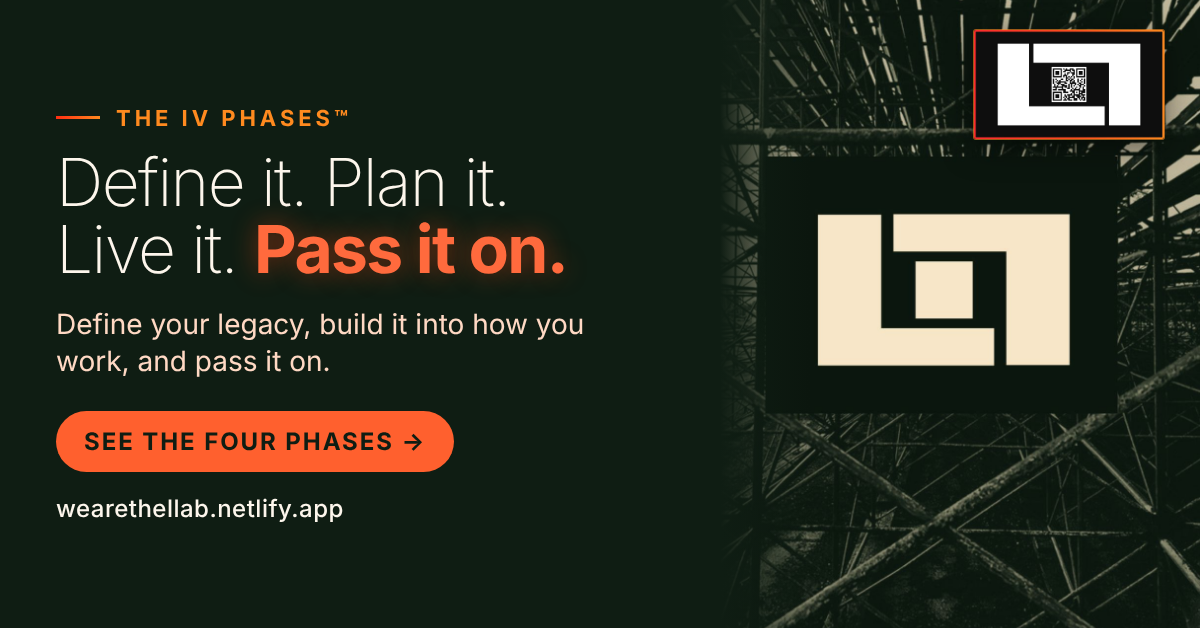
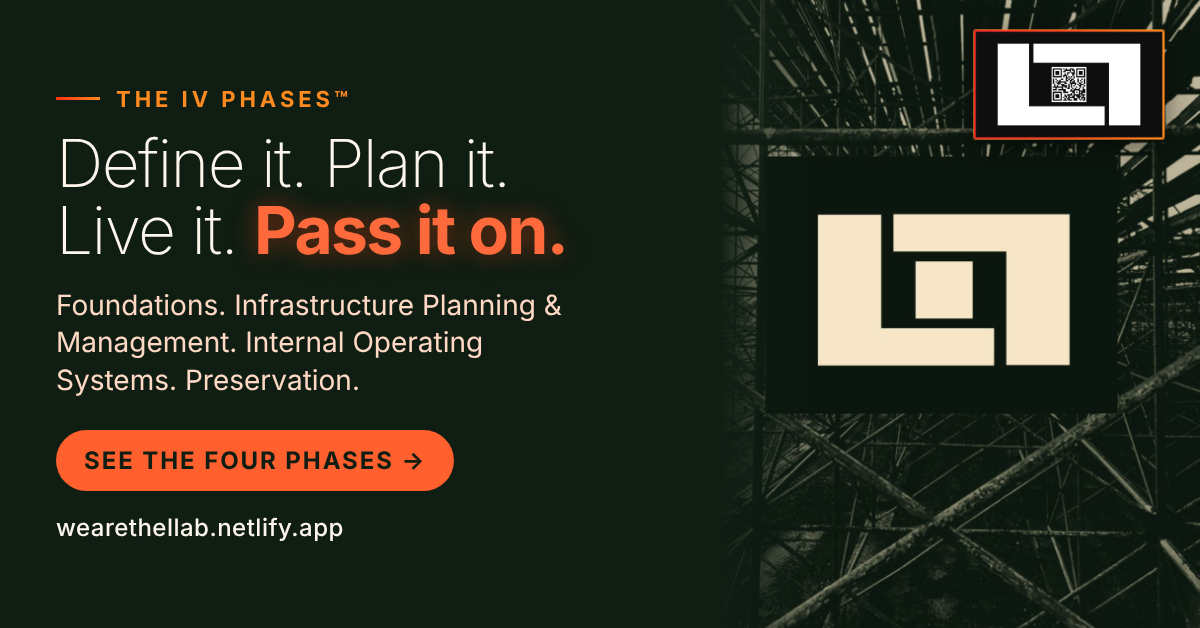
Ad 03 and strategy: use the official IV Phases names (#57)
Claude-Session: https://claude.ai/code/session_01CJiPCp3b9wqRwJ31gambQ1

Changed region(s): [[0.0308, 0.121, 0.4933, 0.8774]]

diff --git a/sw.js b/sw.js
@@ -3,7 +3,7 @@
 // static assets (HTML/CSS/JS/images) and never touches anything that must
 // always be fresh: Netlify Functions (auth, entitlements, downloads),
 // /content/*.json (CMS-edited copy and pricing), or /admin.
-const CACHE_VERSION = 'collab-shell-v33';
+const CACHE_VERSION = 'collab-shell-v34';
 
 const SHELL_ASSETS = [
   '/pages/account.html',

diff --git a/STRATEGY.md b/STRATEGY.md
@@ -17,7 +17,7 @@
 **Strengths:** owned IP, a clear 4-step system, a free front door, no-subscription clarity at the top tier. **Gaps:** no verified social proof yet; Partnership is self-serve at a high ticket, so trust must come from the page; Founders status is "being developed" (pursuing 501(c)(3)) and must stay worded that way.
 
 ## 2. Marketing strategy — one operating model
-**Rule: no tactic exists outside Omnidirectional Enterprise™ × The IV Phases™.** Every ad, page, offer, email and funnel step is tagged with a **node** (who / which direction value moves: Businesses, Nonprofits, Communities, People, Technology, Capital, Knowledge + IP, Creators) and a **phase** (I Define → awareness · II Plan → consideration · III Live → purchase · IV Pass it on → retention, advocacy, legacy). `marketing/ads/index.json` carries the tags and `npm test` fails if any node or phase is uncovered.
+**Rule: no tactic exists outside Omnidirectional Enterprise™ × The IV Phases™.** Every ad, page, offer, email and funnel step is tagged with a **node** (who / which direction value moves: Businesses, Nonprofits, Communities, People, Technology, Capital, Knowledge + IP, Creators) and a **phase** (I Foundations → awareness · II Infrastructure Planning & Management → consideration · III Internal Operating Systems → purchase · IV Preservation → retention, advocacy, legacy). `marketing/ads/index.json` carries the tags and `npm test` fails if any node or phase is uncovered.
 
 **Positioning:** *Every company starts with a vision. Most lose it.* The Co.LLab™ is the infrastructure that defines, builds and passes it on, licensed as IP. Frame: problem → solution; threat always paired with an action; no promises, no fake scarcity.
 
